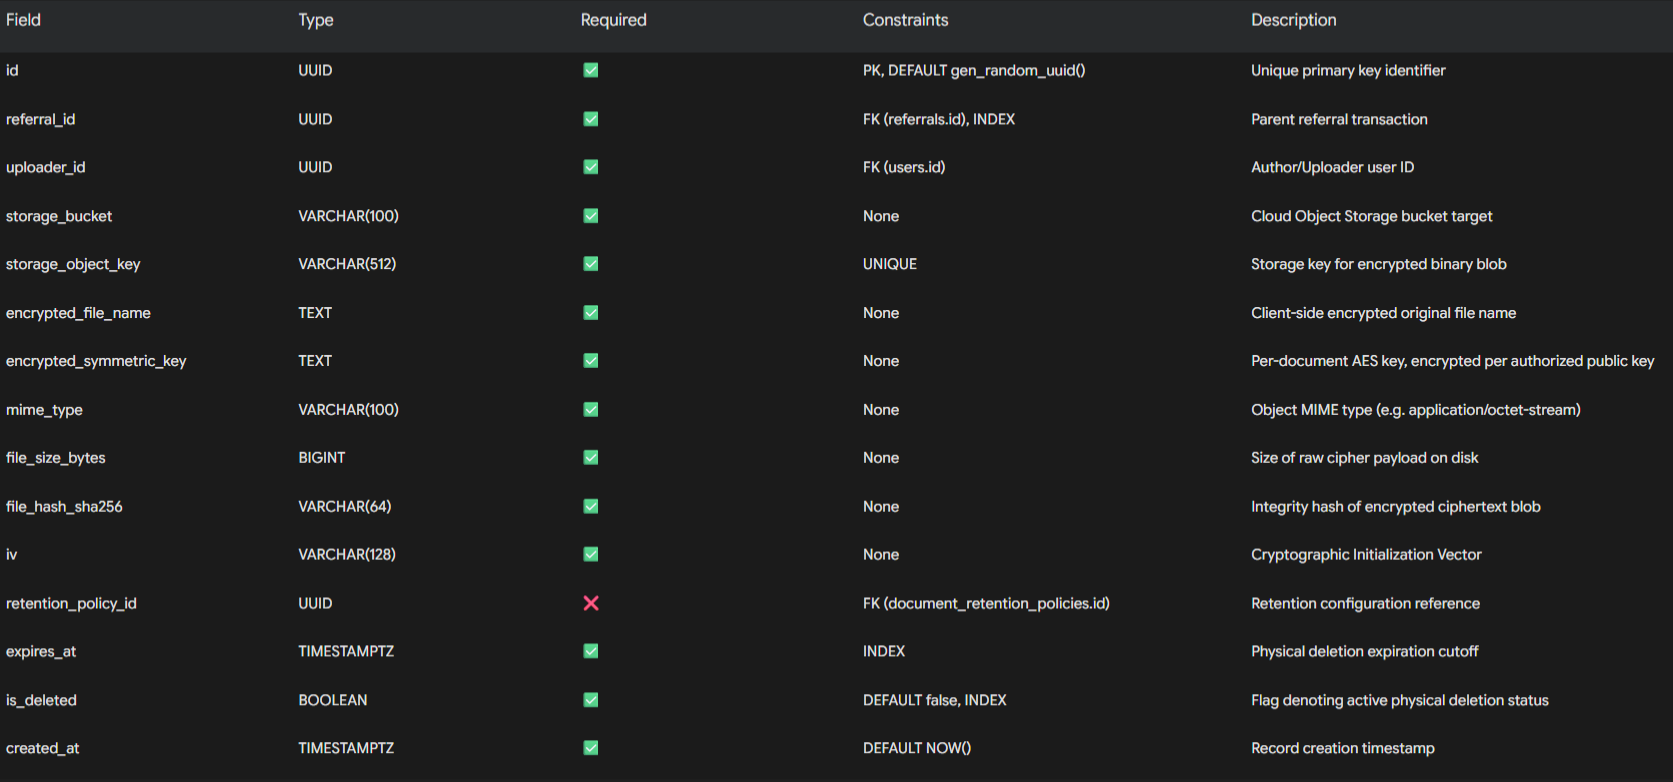
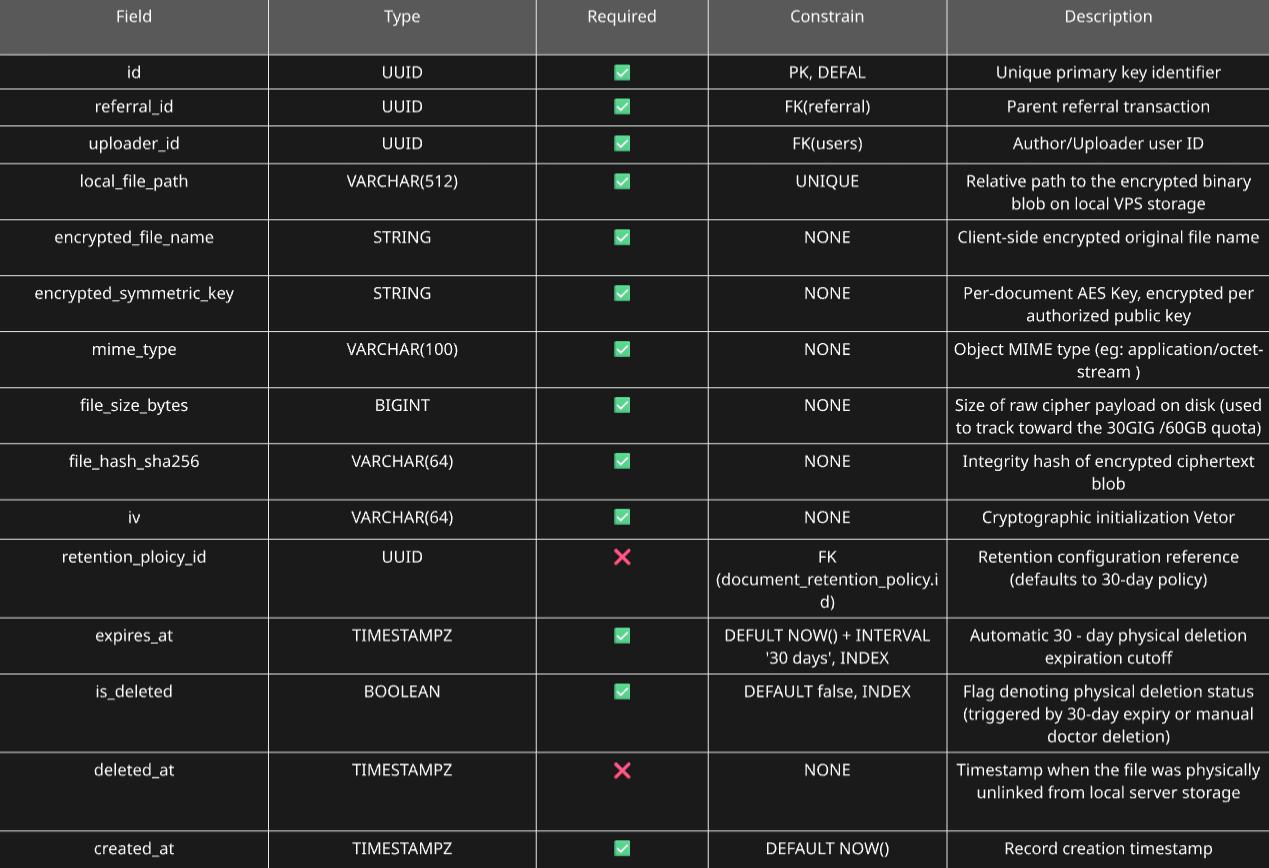
Refactor database connection setup and improve user model timestamps

diff --git a/backend/src/user/model/user_model.py b/backend/src/user/model/user_model.py
@@ -1,8 +1,8 @@
 from sqlalchemy import Column, Integer, String, DateTime, Boolean, UUID as UUID_SQL
 from sqlalchemy.dialects.postgresql import UUID
-from sqlalchemy.ext.declarative import declarative_base
+from sqlalchemy.ext.declarative import declarative_base #! this needs to call the base from the database at production
 from uuid import uuid4
-from datetime import datetime
+from datetime import datetime, timezone
 
 Base = declarative_base()
 
@@ -19,6 +19,6 @@ class User(Base):
     public_key_pem = Column(String, nullable=True)
     is_active = Column(Boolean, default=True, nullable=False)
     is_verified = Column(Boolean, default=False, nullable=False)
-    created_at = Column(DateTime, default=datetime.timezone.utc, nullable=False)
-    updated_at = Column(DateTime, default=datetime.timezone.utc, onupdate=datetime.timezone.utc, nullable=False)
+    created_at = Column(DateTime, default=datetime(timezone=True), nullable=False)
+    updated_at = Column(DateTime, default=datetime(timezone=True), onupdate=datetime(timezone=True), nullable=False)
     deleted_at = Column(DateTime, nullable=True)

diff --git a/backend/src/app.database.py b/backend/src/app.database.py
@@ -1,0 +1,25 @@
+from sqlalchemy import create_engine
+from sqlalchemy.ext.declarative import declarative_base
+from sqlalchemy.orm import sessionmaker
+
+# Replace with your actual PostgreSQL connection string from environment variables
+SQLALCHEMY_DATABASE_URL = "postgresql://user:password@localhost:5432/drportal_db"
+
+# Create SQLAlchemy engine
+engine = create_engine(SQLALCHEMY_DATABASE_URL)
+
+# Session factory for handling database transactions in API endpoints
+SessionLocal = sessionmaker(autocommit=False, autoflush=False, bind=engine)
+
+# Centralized Base class for all models
+Base = declarative_base()
+
+# Dependency for FastAPI endpoints to get a DB session
+def get_db():
+    db = SessionLocal()
+    try:
+        yield db
+    finally:
+        db.close()
+
+# TODO: Change the database url to use environment variables for production deployment.

diff --git a/backend/src/main.py b/backend/src/main.py
@@ -1,4 +1,5 @@
 from fastapi import FastAPI
+from backend.src.user.routes.user_routes import router as user_router
 
 app = FastAPI(
 	title="DRPortal Backend API", 
@@ -9,3 +10,5 @@ app = FastAPI(
 @app.get("/")
 def root():
 	return {"Message": "Hello World"}
+
+app.include_router(user_router, prefix="/api/v1", target=["users"])
